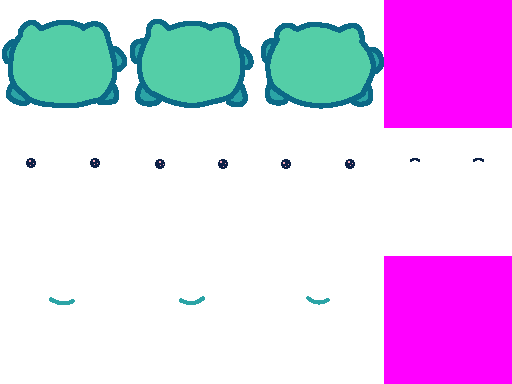
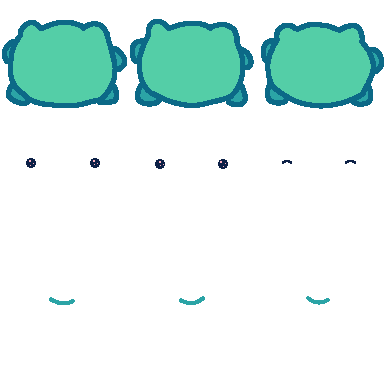
feat: frog blinking

diff --git a/src/frog.rs b/src/frog.rs
@@ -1,11 +1,12 @@
 use bevy::prelude::*;
+use std::time::Duration;
 
 pub struct FrogPlugin;
 
 impl Plugin for FrogPlugin {
     fn build(&self, app: &mut App) {
         app.add_systems(Startup, spawn_frog)
-            .add_systems(Update, animate_sprite);
+            .add_systems(Update, (animate_sprite, blink_frog));
     }
 }
 
@@ -15,8 +16,13 @@ pub struct Frog;
 #[derive(Component, Debug)]
 pub struct FrogBody;
 
-#[derive(Component, Debug)]
-pub struct FrogEyes;
+#[derive(Component, Default, Debug)]
+pub enum FrogEyes {
+    #[default]
+    Open,
+    // Closed,
+    Blinking,
+}
 
 #[derive(Component, Debug)]
 pub struct FrogMouth;
@@ -27,7 +33,7 @@ pub fn spawn_frog(
     mut texture_atlases: ResMut<Assets<TextureAtlas>>,
 ) {
     let texture_handle = asset_server.load("frog.png");
-    let atlas = TextureAtlas::from_grid(texture_handle, Vec2::splat(128.0), 4, 3, None, None);
+    let atlas = TextureAtlas::from_grid(texture_handle, Vec2::splat(128.0), 3, 3, None, None);
     let atlas_handle = texture_atlases.add(atlas);
 
     fn create_child(
@@ -68,16 +74,60 @@ pub fn spawn_frog(
             atlas_handle.clone(),
         ))
         .with_children(create_child(
-            FrogEyes,
+            FrogEyes::default(),
             // Skip 6th frame
-            AnimationIndices { first: 4, last: 5 },
+            AnimationIndices { first: 3, last: 4 },
             atlas_handle.clone(),
         ))
         .with_children(create_child(
             FrogMouth,
-            AnimationIndices { first: 8, last: 10 },
+            AnimationIndices { first: 6, last: 8 },
             atlas_handle,
         ));
+}
+
+#[derive(Component, Deref, DerefMut, Debug)]
+pub struct BlinkTimer(Timer);
+
+impl Default for BlinkTimer {
+    fn default() -> Self {
+        BlinkTimer(Timer::from_seconds(5.0, TimerMode::Once))
+    }
+}
+
+pub fn blink_frog(
+    mut query: Query<(
+        &mut FrogEyes,
+        &mut AnimationIndices,
+        &mut TextureAtlasSprite,
+    )>,
+    mut blink_timer: Local<BlinkTimer>,
+    time: Res<Time>,
+) {
+    blink_timer.tick(time.delta());
+
+    if blink_timer.finished() {
+        let (mut frog_eyes, mut indices, mut sprite) = query.single_mut();
+
+        match *frog_eyes {
+            FrogEyes::Open => {
+                *frog_eyes = FrogEyes::Blinking;
+                *indices = AnimationIndices { first: 5, last: 5 };
+                sprite.index = 5;
+
+                blink_timer.set_duration(Duration::from_secs_f32(0.2));
+                blink_timer.reset();
+            }
+            FrogEyes::Blinking => {
+                *frog_eyes = FrogEyes::Open;
+                *indices = AnimationIndices { first: 3, last: 4 };
+                sprite.index = 3;
+
+                blink_timer.set_duration(Duration::from_secs(5));
+                blink_timer.reset();
+            }
+        }
+    }
 }
 
 #[derive(Component, Debug)]

diff --git a/README.md b/README.md
@@ -10,7 +10,7 @@ Uhhh... I'm still working on it right now. :P I'll fill this in soon.
 
 ## Todo
 
-- [ ] Blinking frog
+- [x] Blinking frog
 - [ ] Squish the frog with a (> . <) face
     - [ ] Sound effect?! :O
 - [ ] Fun shapes in the background
